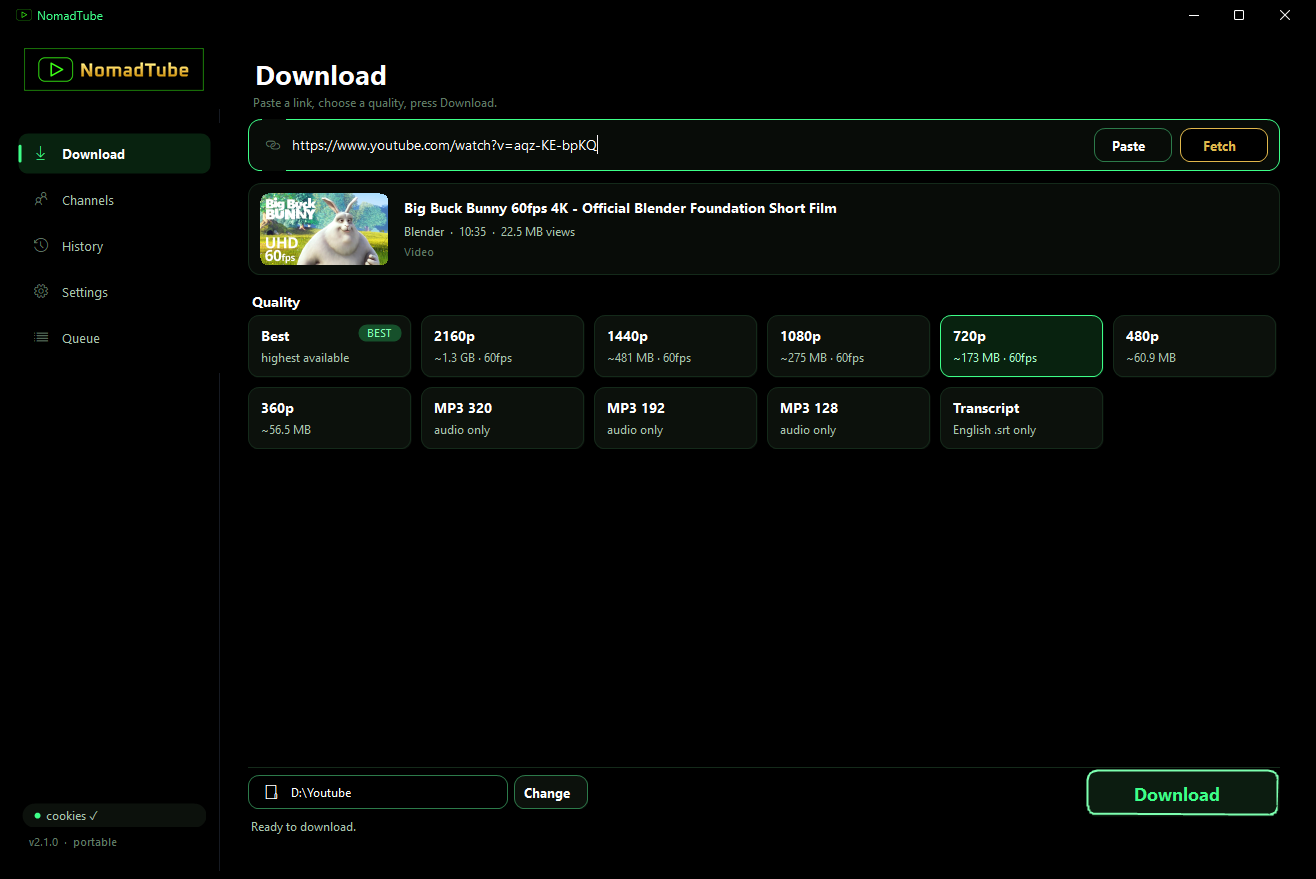
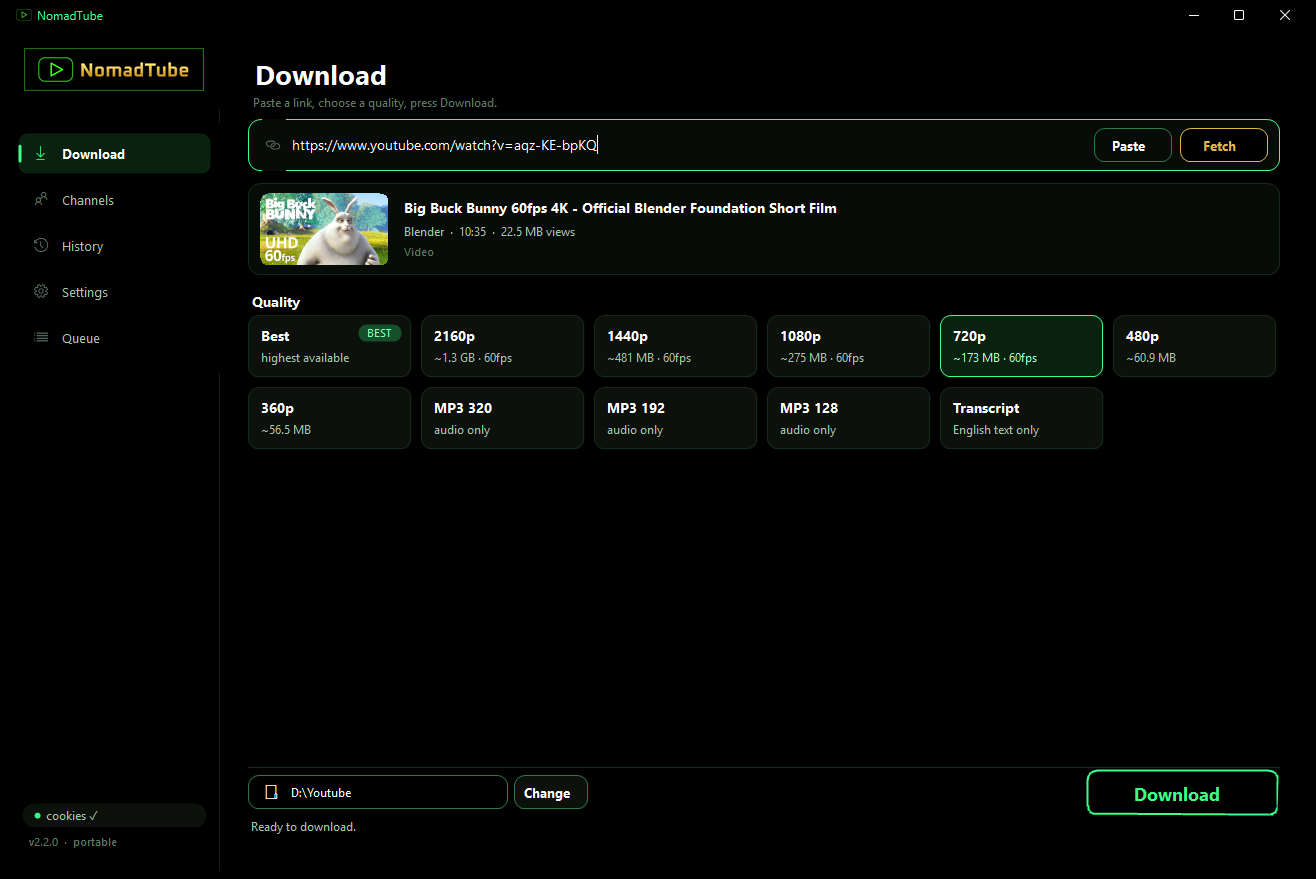
NomadTube v2.2.0 - transcripts as bare-word text
New TranscriptText converter: strips cue indices, timestamps, tags, blank lines and punctuation, dedupes rolling caption lines, writes <title>.txt with the optional transcript-add.txt prefix, then deletes the .srt/.vtt sidecars.
Transcript-only history rows use a TXT badge; video downloads keep only .mp4 + .txt.
README and screenshots updated.

Changed region(s): [[0.81, 0.8601, 0.997, 0.9522], [0.7477, 0.4608, 0.7789, 0.4915]]

diff --git a/src/TranscriptText.cs b/src/TranscriptText.cs
@@ -1,0 +1,122 @@
+using System;
+using System.Collections.Generic;
+using System.IO;
+using System.Text;
+using System.Text.RegularExpressions;
+
+namespace MpcGrabber
+{
+    internal static class TranscriptText
+    {
+        private static readonly Regex CueIndex = new Regex(@"^\s*\d+\s*$", RegexOptions.Compiled);
+        private static readonly Regex CueTime = new Regex(@"^\s*\d{1,2}:\d{2}:\d{2}[,.]\d{1,3}\s*-->", RegexOptions.Compiled);
+        private static readonly Regex Tag = new Regex(@"<[^>]*>", RegexOptions.Compiled);
+        private static readonly Regex NonWord = new Regex(@"[^\p{L}\p{Nd}]+", RegexOptions.Compiled);
+        private static readonly Regex LangSuffix = new Regex(@"\.[A-Za-z]{2,3}(-[A-Za-z0-9]+)?$", RegexOptions.Compiled);
+
+        public static string BaseName(string path)
+        {
+            string dir = Path.GetDirectoryName(path) ?? "";
+            string name = Path.GetFileNameWithoutExtension(path);
+            return Path.Combine(dir, LangSuffix.Replace(name, ""));
+        }
+
+        public static string ReadPrefix()
+        {
+            try
+            {
+                string p = Path.Combine(AppDomain.CurrentDomain.BaseDirectory, "transcript-add.txt");
+                if (!File.Exists(p)) return "";
+                return File.ReadAllText(p, Encoding.UTF8).Trim();
+            }
+            catch { return ""; }
+        }
+
+        // SRT -> one line of bare words, prefixed with transcript-add.txt when present
+        public static string Convert(string srtPath)
+        {
+            if (string.IsNullOrEmpty(srtPath) || !File.Exists(srtPath)) return "";
+
+            string[] lines = File.ReadAllLines(srtPath, Encoding.UTF8);
+            List<string> kept = new List<string>();
+            for (int i = 0; i < lines.Length; i++)
+            {
+                string line = lines[i];
+                if (line.Trim().Length == 0) continue;
+                if (CueIndex.IsMatch(line)) continue;
+                if (CueTime.IsMatch(line)) continue;
+
+                string text = Tag.Replace(line, " ").Trim();
+                if (text.Length == 0) continue;
+                if (kept.Count > 0 && string.Equals(kept[kept.Count - 1], text, StringComparison.Ordinal)) continue;
+                kept.Add(text);
+            }
+
+            string words = NonWord.Replace(string.Join(" ", kept.ToArray()), " ").Trim();
+            if (words.Length == 0) return "";
+
+            StringBuilder sb = new StringBuilder();
+            string prefix = ReadPrefix();
+            if (prefix.Length > 0) sb.Append(prefix).Append(Environment.NewLine);
+            sb.Append(words);
+
+            string outPath = BaseName(srtPath) + ".txt";
+            File.WriteAllText(outPath, sb.ToString(), new UTF8Encoding(false));
+            return outPath;
+        }
+
+        public static bool HasSidecar(string basePath)
+        {
+            try
+            {
+                string dir = Path.GetDirectoryName(basePath);
+                if (string.IsNullOrEmpty(dir) || !Directory.Exists(dir)) return false;
+                string name = Path.GetFileName(basePath);
+                foreach (string f in Directory.GetFiles(dir, name + ".*"))
+                {
+                    string ext = Path.GetExtension(f).ToLowerInvariant();
+                    if (ext == ".srt" || ext == ".vtt" || ext == ".ttml") return true;
+                }
+            }
+            catch { }
+            return false;
+        }
+
+        public static void DeleteSidecars(string basePath)
+        {
+            try
+            {
+                string dir = Path.GetDirectoryName(basePath);
+                if (string.IsNullOrEmpty(dir) || !Directory.Exists(dir)) return;
+                string name = Path.GetFileName(basePath);
+                foreach (string f in Directory.GetFiles(dir, name + ".*"))
+                {
+                    string ext = Path.GetExtension(f).ToLowerInvariant();
+                    if (ext == ".srt" || ext == ".vtt" || ext == ".ttml")
+                    {
+                        try { File.Delete(f); } catch { }
+                    }
+                }
+            }
+            catch { }
+        }
+
+        public static string FindSubtitle(string basePath)
+        {
+            try
+            {
+                string dir = Path.GetDirectoryName(basePath);
+                if (string.IsNullOrEmpty(dir) || !Directory.Exists(dir)) return "";
+                string name = Path.GetFileName(basePath);
+                string[] hits = Directory.GetFiles(dir, name + ".*.srt");
+                if (hits.Length > 0)
+                {
+                    Array.Sort(hits, StringComparer.OrdinalIgnoreCase);
+                    return hits[0];
+                }
+            }
+            catch { }
+            return "";
+        }
+    }
+}

diff --git a/src/DownloadService.cs b/src/DownloadService.cs
@@ -221,6 +221,31 @@ namespace MpcGrabber
                 catch { }
             }
 
+            if (subsOnly)
+            {
+                string txt = TranscriptText.Convert(outPath);
+                if (txt.Length == 0)
+                {
+                    job.State = JobState.Failed;
+                    job.Status = "Failed";
+                    job.Error = "Transcript downloaded but could not be converted to text.";
+                    Raise(true);
+                    return;
+                }
+                TranscriptText.DeleteSidecars(TranscriptText.BaseName(outPath));
+                outPath = txt;
+            }
+            else if (subsWithVideo)
+            {
+                string basePath = TranscriptText.BaseName(outPath);
+                string sub = TranscriptText.FindSubtitle(basePath);
+                if (sub.Length > 0)
+                {
+                    TranscriptText.Convert(sub);
+                    TranscriptText.DeleteSidecars(basePath);
+                }
+            }
+
             job.OutputPath = outPath;
             job.State = JobState.Done;
             job.Status = "Done";
@@ -232,7 +257,7 @@ namespace MpcGrabber
             h.Title = job.Title;
             h.Url = job.Url;
             h.FilePath = outPath;
-            h.Kind = job.TranscriptOnly ? "SRT" : (job.AudioBitrate > 0 ? "MP3" : "MP4");
+            h.Kind = job.TranscriptOnly ? "TXT" : (job.AudioBitrate > 0 ? "MP3" : "MP4");
             h.Quality = job.QualityLabel;
             h.FinishedAt = DateTime.Now.ToString("yyyy-MM-dd HH:mm");
             h.Channel = job.ChannelName;

diff --git a/src/MainForm.cs b/src/MainForm.cs
@@ -1178,13 +1178,13 @@ namespace MpcGrabber
             }
 
             _chkTranscript = new ToggleBox();
-            _chkTranscript.Text = "Always save English transcript (.srt) with video (channels too)";
+            _chkTranscript.Text = "Always save English transcript with video (channels too)";
             _chkTranscript.Bounds = new Rectangle(18, 138, 590, 22);
             _chkTranscript.Checked = Store.Current.TranscriptWithVideo;
             _chkTranscript.CheckedChanged += delegate { Store.Current.TranscriptWithVideo = _chkTranscript.Checked; Store.SaveSettings(); };
             cardDefaults.Controls.Add(_chkTranscript);
 
-            Label lblTrHint = MkLabel("auto-generated captions are fine \u2014 converted to .srt next to the video", T.Tiny, T.Faint, T.Card);
+            Label lblTrHint = MkLabel("auto-generated captions are fine \u2014 saved as <title>.txt, subtitle files removed", T.Tiny, T.Faint, T.Card);
             lblTrHint.Bounds = new Rectangle(18, 164, 620, 16);
             cardDefaults.Controls.Add(lblTrHint);
 

diff --git a/src/Lists.cs b/src/Lists.cs
@@ -380,9 +380,9 @@ namespace MpcGrabber
                 T.StrokeRound(g, T.BorderSoft, new Rectangle(r.X, r.Y + 3, r.Width, RowH - 10), 10, 1f);
 
                 Rectangle badge = new Rectangle(r.X + 14, r.Y + 15, 40, 40);
-                bool mp3 = h.Kind == "MP3";
-                T.FillRound(g, mp3 ? Color.FromArgb(24, 48, 40) : T.AccentTint, badge, 10);
-                T.Draw(g, mp3 ? "MP3" : "MP4", T.SmallB, mp3 ? T.Success : T.Accent, badge,
+                string kind = h.Kind == "MP3" ? "MP3" : (h.Kind == "TXT" ? "TXT" : "MP4");
+                T.FillRound(g, kind == "MP3" ? Color.FromArgb(24, 48, 40) : (kind == "TXT" ? T.GoldTint : T.AccentTint), badge, 10);
+                T.Draw(g, kind, T.SmallB, kind == "MP3" ? T.Success : (kind == "TXT" ? T.Gold : T.Accent), badge,
                     TextFormatFlags.HorizontalCenter | TextFormatFlags.VerticalCenter);
 
                 int textW = r.Width - 14 - 56 - 190;

diff --git a/src/YtDlp.cs b/src/YtDlp.cs
@@ -185,7 +185,7 @@ namespace MpcGrabber
                 int r = rates[i];
                 list.Add(new FormatOption { Title = "MP3 " + r, Sub = "audio only", AudioBitrate = r });
             }
-            list.Add(new FormatOption { Title = "Transcript", Sub = "English .srt only", TranscriptOnly = true });
+            list.Add(new FormatOption { Title = "Transcript", Sub = "English text only", TranscriptOnly = true });
         }
 
         public static void Log(string message)

diff --git a/src/AssemblyInfo.cs b/src/AssemblyInfo.cs
@@ -5,5 +5,5 @@ using System.Reflection;
 [assembly: AssemblyProduct("NomadTube")]
 [assembly: AssemblyCompany("")]
 [assembly: AssemblyCopyright("")]
-[assembly: AssemblyVersion("2.1.1.0")]
-[assembly: AssemblyFileVersion("2.1.1.0")]
+[assembly: AssemblyVersion("2.2.0.0")]
+[assembly: AssemblyFileVersion("2.2.0.0")]

diff --git a/README.md b/README.md
@@ -43,9 +43,11 @@ same folder, so the whole folder is the app. Deleting the folder removes every t
   switches to the Channels tab and loads that channel with the timeframe you last picked.
 - **Real formats per URL** — after *Fetch* it shows the actual resolutions with approximate sizes,
   plus **Best** and **MP3 320 / 192 / 128**.
-- **Transcripts** — a **Transcript** card on the Download screen saves just the English `.srt` instead of
-  a video or MP3; a Settings toggle (*Always save English transcript with video*) also writes `.srt`
-  next to every download, channel downloads included. English only, auto-captions are fine.
+- **Transcripts** — a **Transcript** card on the Download screen saves just the English transcript instead
+  of a video or MP3; a Settings toggle (*Always save English transcript with video*) also writes one next to
+  every download, channel downloads included. The transcript is saved as **bare words** in `<title>.txt`
+  (cue numbers, timestamps and blank lines stripped, punctuation removed), the subtitle files are deleted,
+  and any text in `transcript-add.txt` beside the exe is prepended. English only, auto-captions are fine.
 - **Playlists** — checkbox list with All/None; your chosen quality applies to every checked item.
 - **Queue page** — its own section in the sidebar. Starting a playlist download jumps straight to it,
   with every item's state, quality, live percent / speed / ETA, *Cancel current* and *Clear finished*.
@@ -83,7 +85,7 @@ timeframe — **Last 24 hr**, **7 days** or **30 days** — and press **Fetch**.
 - Save a channel by loading it — it stays in **Saved channels** with how many files you have downloaded from it.
   Items already downloaded are dimmed, ticked with a green check and left unchecked.
 - Channel downloads honour the *Always save English transcript* setting — tick it in Settings and each
-  channel video gets a matching `.srt` beside it (there is no transcript-only option on this page).
+  channel video gets a matching `.txt` transcript beside it (there is no transcript-only option on this page).
 - Channel downloads are named **`Channel - Title - MMDDYY-HHMM.ext`** (the time part is dropped when YouTube
   does not expose one) and are recorded in History with the channel name.
 - CLI: `NomadTube.exe --channel "@handle"` opens straight to that channel. Downloads use your default video
@@ -130,6 +132,8 @@ No SDK, no Visual Studio, no NuGet — it compiles with the C# compiler that shi
 ## Notes
 
 - History/settings: `nomadtube.history.json`, `nomadtube.settings.json`, `nomadtube.channels.json`.
+- `transcript-add.txt` (optional, beside the exe): whatever text it holds is placed at the top of every
+  generated transcript `.txt`.
 - Failures are logged to `nomadtube.log` beside the exe (only written when something goes wrong).
 - The app is DPI-unaware on purpose so it scales correctly on mixed-DPI multi-monitor setups;
   Windows bitmap-scales it on displays above 100%.
